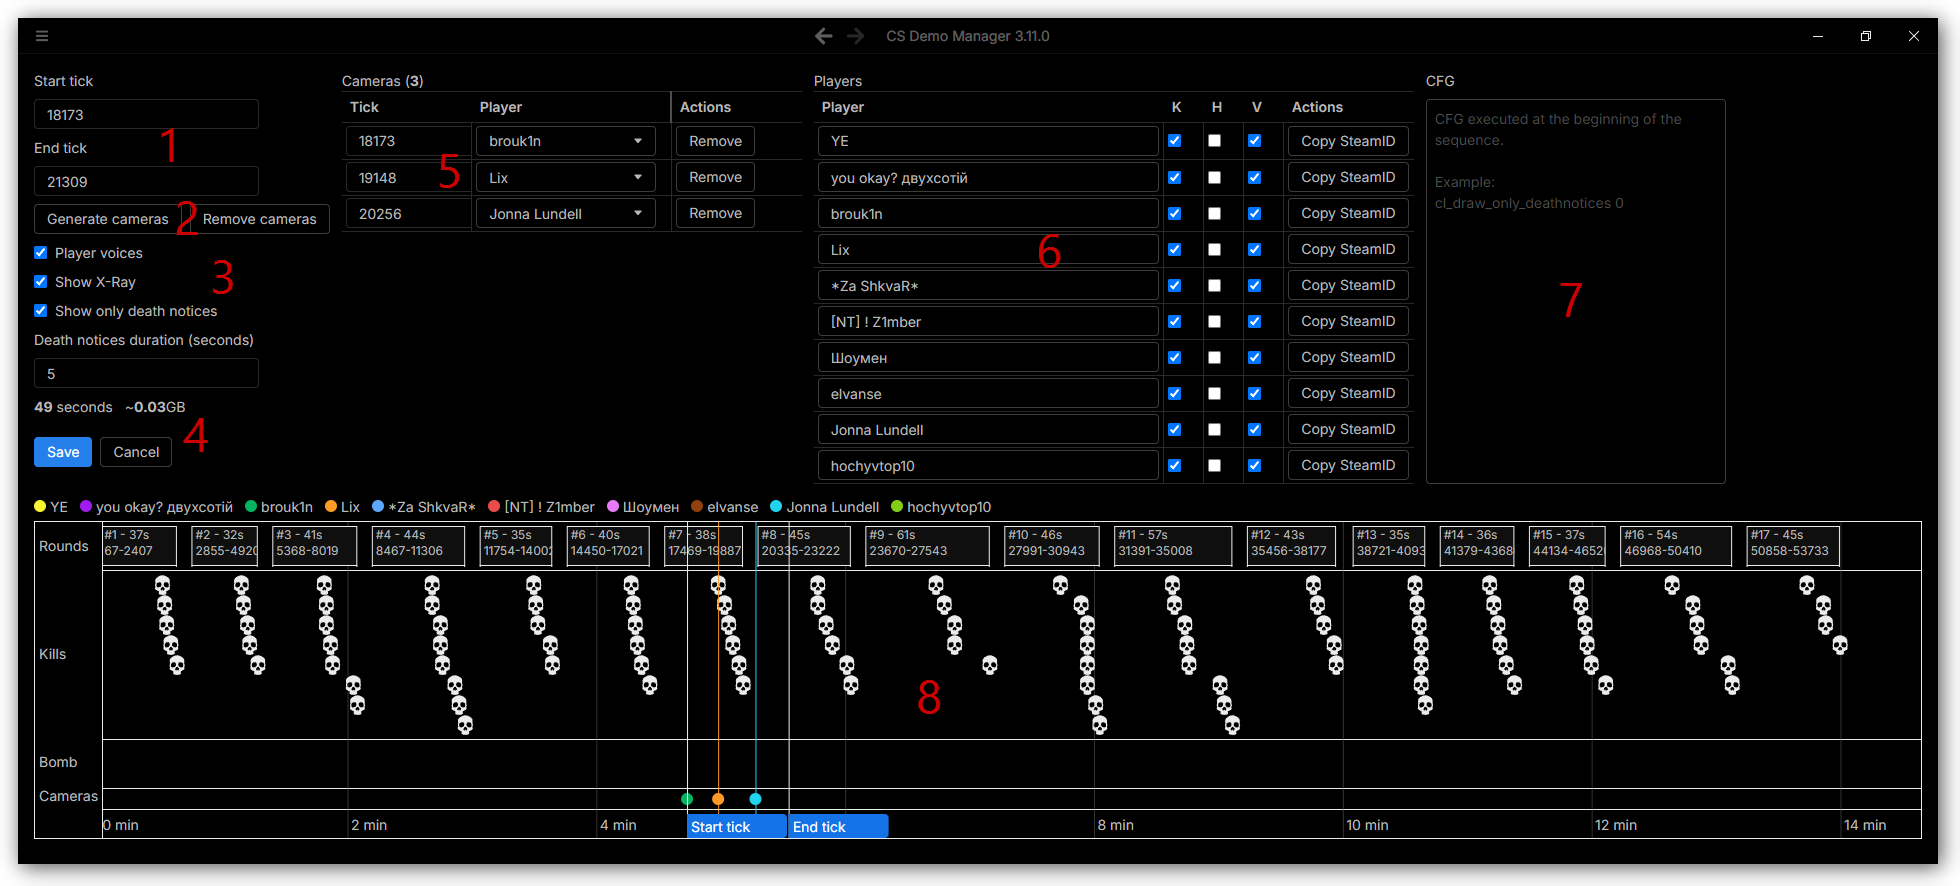
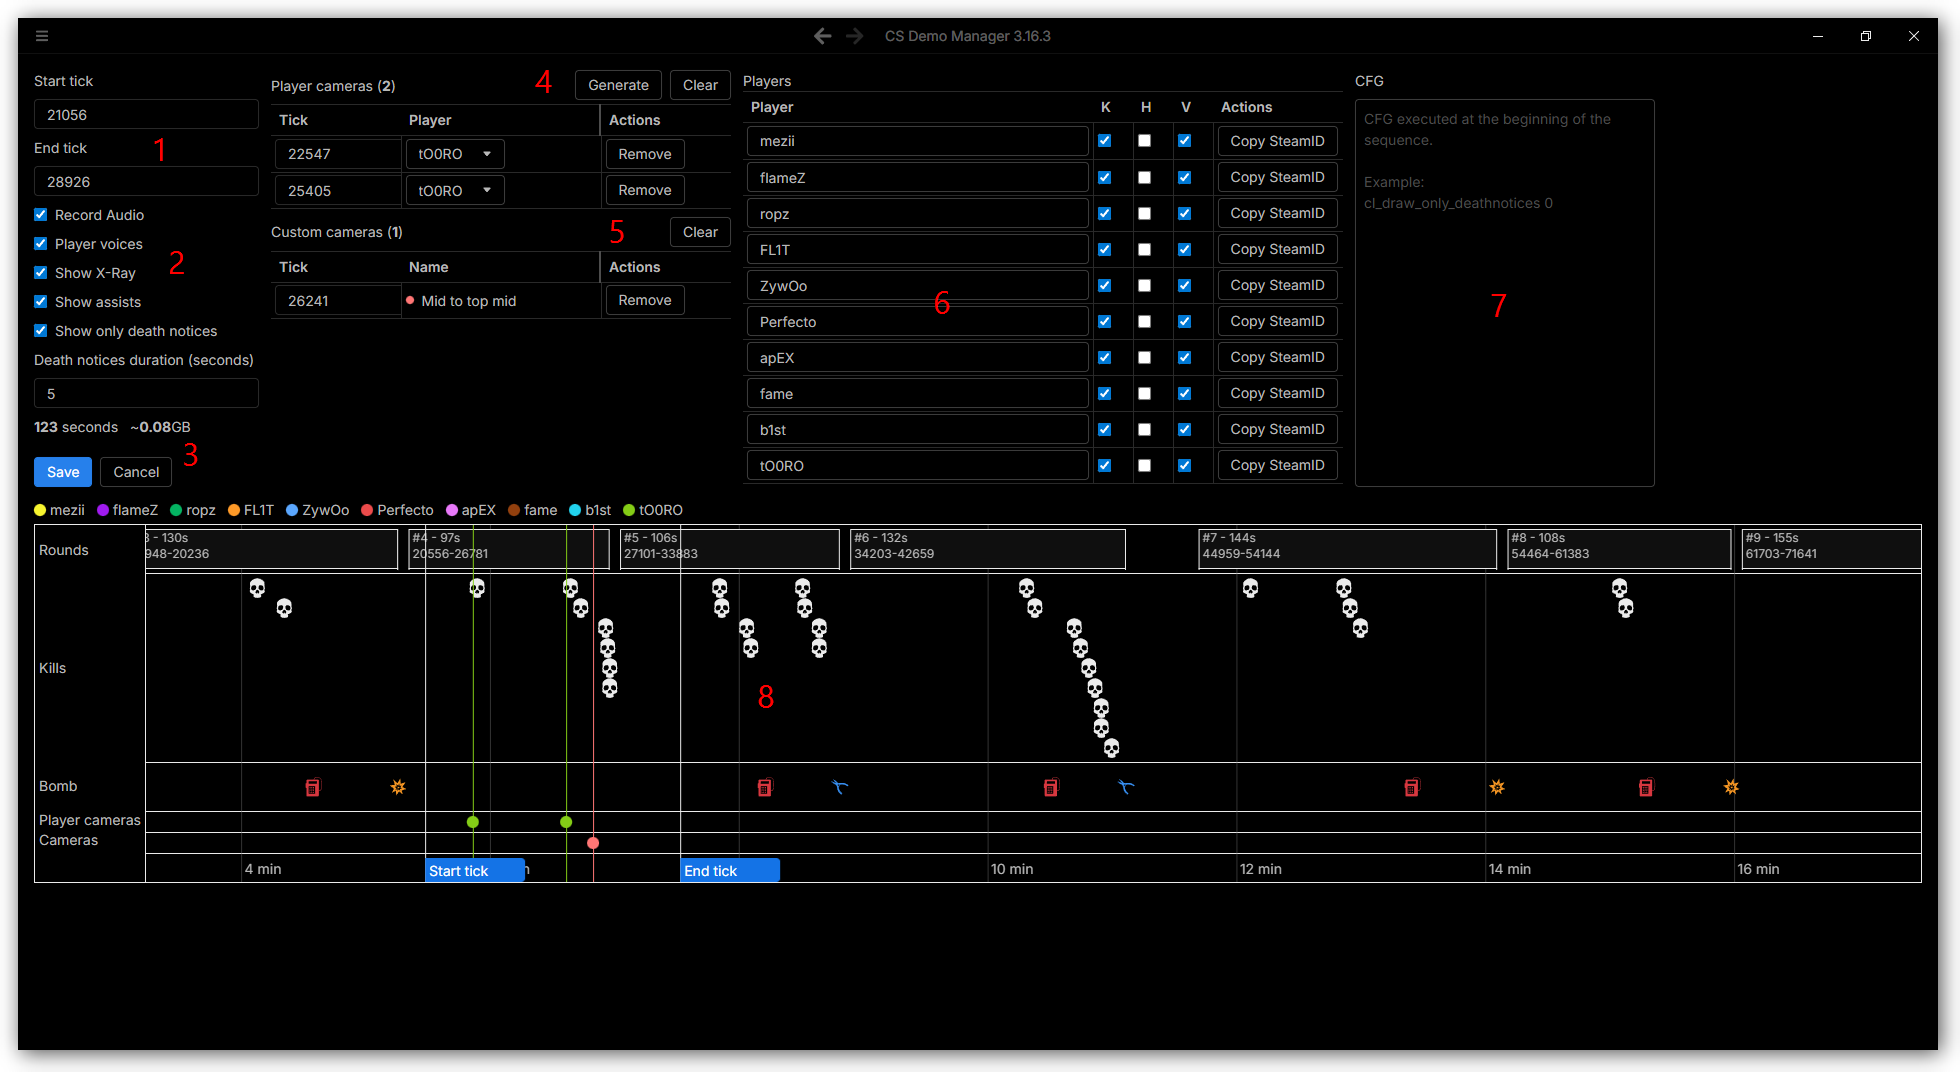
feat: adjust video doc for fixed cameras

diff --git a/docs/03-guides/07-video.md b/docs/03-guides/07-video.md
@@ -65,10 +65,10 @@ These unique IDs prevent overwriting files when generating multiple videos.
 ![Add sequence window](/img/documentation/guides/video/add-sequence.png)
 
 1. The inputs to set the sequence start/end ticks. You would probably not type the ticks manually but use the rounds timeline below.
-2. Buttons to generate/remove cameras focus.
-3. In-game options.
-4. The sequence's duration, how much disk space it requires and a button to add it.
-5. The list of camera players focus during the sequence.
+2. In-game options.
+3. The sequence's duration, how much disk space it requires and a button to add it.
+4. List of camera focus events on players during the sequence.
+5. List of fixed viewpoint cameras during the sequence.
 6. Players options.
 7. Game commands executed when the sequence starts.
 8. Rounds timeline.
@@ -282,7 +282,13 @@ For example, if you right-click on a round, you will be able to change the ticks
 ![Round context menu](/img/documentation/guides/video/round-context-menu.png)
 :::
 
-### Cameras focus
+### Cameras
+
+You can mix player-focused POVs with fixed map viewpoints.
+
+![Cameras](/img/documentation/guides/video/cameras.png)
+
+#### Player focus
 
 You can ask to focus the camera on a specific player at any tick during the sequence.  
 To do so, you have 2 options:
@@ -292,9 +298,22 @@ To do so, you have 2 options:
    ![Generate cameras dialog](/img/documentation/guides/video/generate-cameras-dialog.png)  
    This dialog allows you to focus the camera on a player at the start of the sequence and generate cameras focus from events that happened during the sequence with a delay.
 
+#### Fixed viewpoint
+
+You can also use fixed viewpoint cameras defined in the application [cameras settings](/docs/guides/cameras).  
+To do so, right-click on the timeline, go to **Set camera** and select the camera you want to use.
+
+:::warning
+If you don't see **Set camera** in the context menu, it means there is no camera defined for the current map and game and you need to [add one](/docs/guides/cameras#addingediting-a-camera) first!
+:::
+
 ### In-game options
 
 ![In-game options](/img/documentation/guides/video/in-game-options.png)
+
+#### Record audio
+
+Enable/disable audio recording.
 
 #### Player voices
 
@@ -305,6 +324,10 @@ Fully enable/disable player voices.
 It turns on/off the Counter-Strike X-Ray mode.  
 When enabled, you can see all players through walls:  
 ![X-Ray mode](/img/documentation/guides/video/x-ray.png)
+
+#### Show assists
+
+It turns on/off the display of assists in death notices using the `mp_display_kill_assists` game command.
 
 #### Show only death notices
 
@@ -360,6 +383,12 @@ Timelines are interactive. You can click and drag to move on the timeline, use t
 right-click to open a context menu.
 
 ![Timeline](/img/documentation/guides/video/timeline.gif)
+
+### Round comments
+
+If you add a comment to a round in the match **Rounds** tab, the timeline displays a comment icon. Hover the icon to read the comment.
+
+![Round comment](/img/documentation/guides/video/round-comment.png)
 
 ### Generating player's sequences
 
